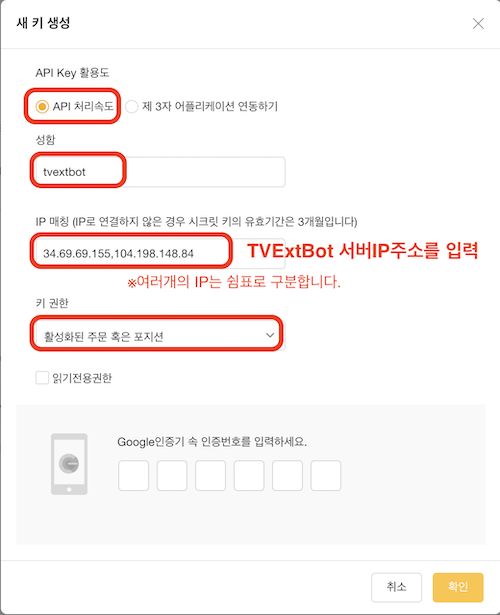
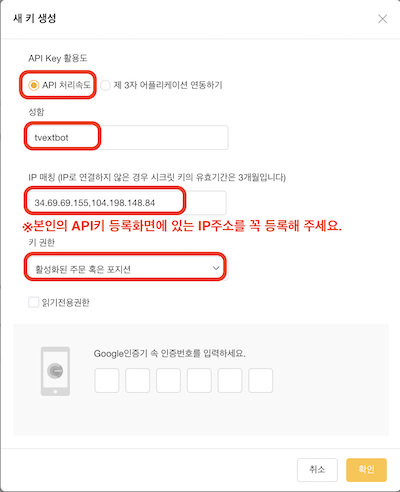
rebuilding site 2021년 11월 28일 일요일 18시 38분 51초 JST

diff --git a/post/webhook/index.html b/post/webhook/index.html
@@ -60,7 +60,7 @@
   "headline": "웹훅URL에 의한 자동매매",
   "description" : "웹훅URL에 의한 자동매매란 컴퓨터를 껀 상태에서도 트레이딩뷰와 연동하여 자동매매를 가능하도록한 새로운 기능으로 기\u001d존 컴퓨터를 계속 켜둬야 하거나 비싼 가격의 가상환경을 구매하여 자동매매를 해야하는 부담감에서 벗어나서 자동매매를 할 수 있습니다.\n",
   "inLanguage" : "ko",
-  "wordCount":  156 ,
+  "wordCount":  152 ,
   "datePublished" : "2020-06-27T14:45:32",
   "dateModified" : "2020-06-27T14:45:32",
   "image" : "https:\/\/tvextbot.github.io\/img\/avatar-icon.png",
@@ -347,8 +347,8 @@ if (!doNotTrack) {
         <p><span class="text-info h4">웹훅URL에 의한 자동매매</span>란 <span class="text-danger h4 font-weight-bold">컴퓨터를 껀 상태에서도 트레이딩뷰와 연동하여 자동매매를 가능하도록한 새로운 기능</span>으로
 <span class="text-default font-weight-bold">기존 컴퓨터를 계속 켜둬야 하거나 비싼 가격의 가상환경을 구매하여 자동매매를 해야하는 부담감에서 벗어나서 자동매매를 할 수 있습니다.</span></p>
 <p>웹훅URL에 의한 자동매매를 실행하는 방법에 대해서 설명하겠습니다.<br><br></p>
-<h5 class="text-primary"><i class="fas fa-info-circle"></i> 웹훅URL은 등록하신 인증키의 버전에 따라 다릅니다.얼러트의 웹훅URL 설정시 주의하여 주세요.</h5>
-<table class="table">
+<h5 class="text-danger"><i class="fas fa-info-circle"></i> 웹훅URL은 등록하신 인증키의 버전에 따라 다릅니다.본인의 주문메시지 작성화면에 있는 웹훅URL을 꼭 사용해 주세요.</h5>
+<!-- <table class="table">
   <thead class="thead-dark">
     <tr>
       <th scope="col">웹훅URL</th>
@@ -381,9 +381,9 @@ if (!doNotTrack) {
       <td>없음 <h6 class="text-danger">※ 무료버전 사용시에는 IP주소를 등록하지 마세요</h6></td>
     </tr>
   </tbody>
-</table>
-<h6 class="text-danger">※ 본인의 인증키 버전과 다른 웹훅URL을 사용하면 주문에러가 발생합니다. 꼭 주문메시지 작성화면에 있는 웹훅URL을 복사하여 사용해 주세요.</h6>
-<h6 class="text-danger">※ 트라이얼 버전은 인증키 등록화면에 있는 [무료인증키 발행하기] 링크를 통해 무료로 발행할 수 있습니다.</h6><br>
+</table> -->
+<h5 class="text-danger"><i class="fas fa-info-circle"></i>  본인의 인증키 버전과 다른 웹훅URL을 사용하면 주문에러가 발생하니 주의하여 주세요.</h5>
+<h5 class="text-danger"><i class="fas fa-info-circle"></i>  트라이얼 버전은 인증키 등록화면에 있는 [무료인증키 발행하기] 링크를 통해 무료로 발행할 수 있습니다.</h5><br>
 <!-- <div id="alert" class="alert alert-danger">
     <h4 class="alert-heading"><i class="fas fa-gift"></i> 주의사항</h4>
     <h5 class="text-light font-weight-bold">

diff --git a/post/first/index.html b/post/first/index.html
@@ -59,7 +59,7 @@
   "headline": "시작하기",
   "description" : "구글 크롬웹 스토어에서 TVExtBot를 자신의 크롬 브라우저에 추가한 후 아래의 설명을 참고하여 설정해 주세요.\n",
   "inLanguage" : "ko",
-  "wordCount":  863 ,
+  "wordCount":  862 ,
   "datePublished" : "2019-03-02T10:19:39",
   "dateModified" : "2019-03-02T10:19:39",
   "image" : "https:\/\/tvextbot.github.io\/img\/avatar-icon.png",
@@ -471,8 +471,8 @@ if (!doNotTrack) {
         <li>페멕스(Phemex) 테스트넷</li>
     </ul>
 </div>
-<h5 class="text-danger"><i class="fas fa-info-circle"></i> API키 발행시 고정IP 등록이 필요할 경우 아래의 사용하는 웹훅URL에 따라 사용하는 IP주소가 다르니 등록시 주의하여 주세요.</h5>
-<table class="table">
+<h5 class="text-danger"><i class="fas fa-info-circle"></i> API키 발행시 고정IP 등록이 필요할 경우 본인의 API키 등록화면에 있는 IP주소를 꼭 등록해 주세요.</h5>
+<!-- <table class="table">
   <thead class="thead-dark">
     <tr>
       <th scope="col">웹훅URL</th>
@@ -505,8 +505,8 @@ if (!doNotTrack) {
       <td>없음 <h6 class="text-danger">※ 무료버전 사용시에는 IP주소를 등록하지 마세요</h6></td>
     </tr>
   </tbody>
-</table>
-<h6 class="text-danger">※ 웹훅URL과 IP주소는 사용하시는 버전에 따라 다릅니다. 꼭 설정화면에 있는 웹훅URL과 IP주소를 사용해 주세요.</h6><br>
+</table> -->
+<h5 class="text-danger">※ 웹훅URL과 IP주소는 사용하시는 버전에 따라 다릅니다. 꼭 설정화면에 있는 웹훅URL과 IP주소를 사용해 주세요.</h5><br>
 <h5><span class="text-primary">예) 바이빗 API키 발행방법 (※ 출금은 절대 체크하지 마세요!)</span></h5>
 
 
